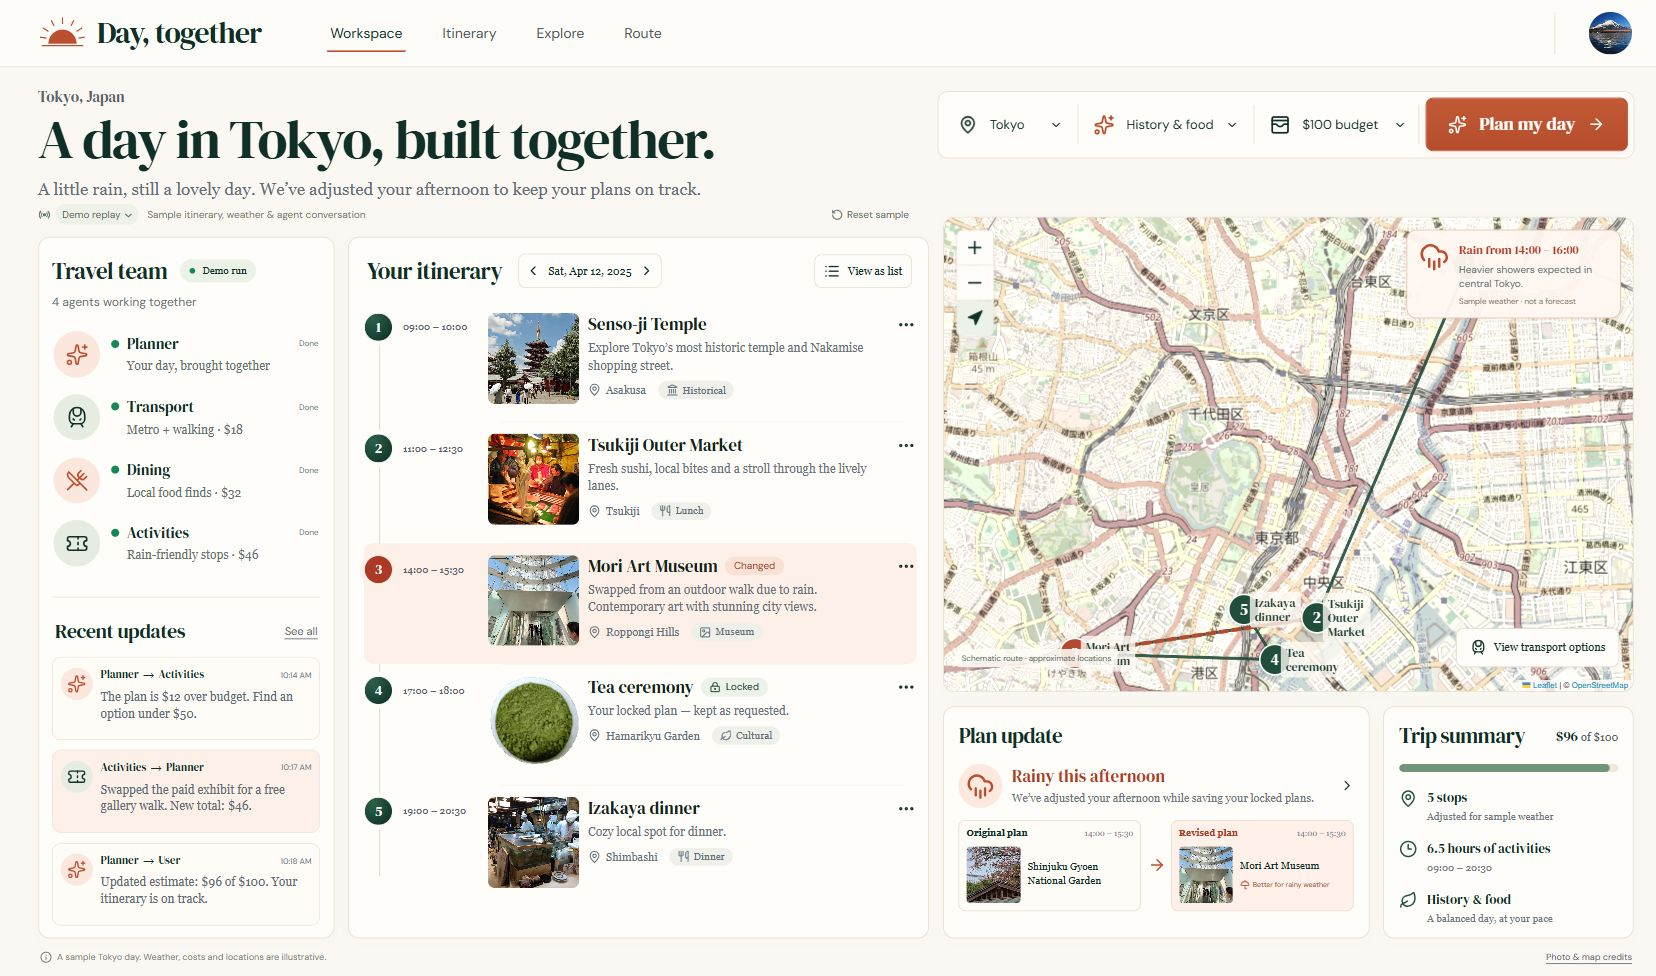
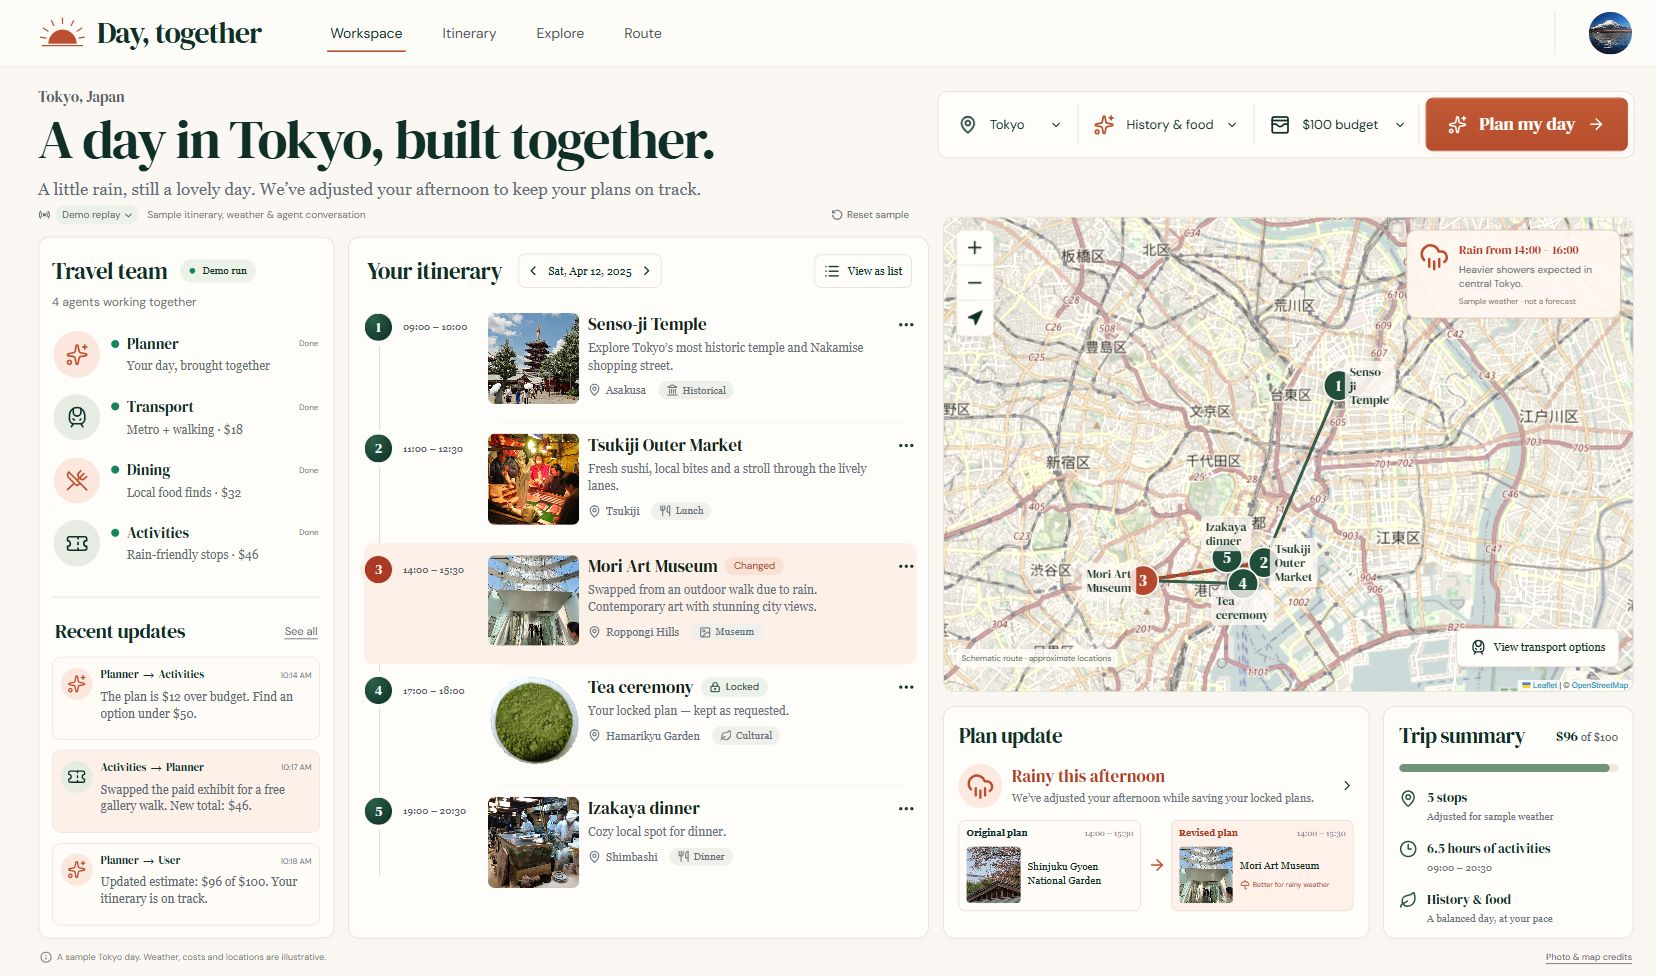
Keep route markers visible around the weather panel

Changed region(s): [[0.5543, 0.2152, 0.9855, 0.707]]

diff --git a/travel-planner/frontend/src/components/MapMarker.tsx b/travel-planner/frontend/src/components/MapMarker.tsx
@@ -24,7 +24,7 @@ export default function MapMarker({
       title={`Stop ${place.order}: ${place.name}`}
       eventHandlers={{ click: onSelect }}
     >
-      <Tooltip direction="right" permanent>
+      <Tooltip direction={place.order===5?'top':place.order===3?'left':place.order===4?'bottom':'right'} permanent>
         {place.name}
       </Tooltip>
     </Marker>

diff --git a/travel-planner/frontend/src/components/RouteMap.tsx b/travel-planner/frontend/src/components/RouteMap.tsx
@@ -22,8 +22,8 @@ function Controls({
     );
     if (points.length)
       map.fitBounds(points, {
-        paddingTopLeft: [40, 40],
-        paddingBottomRight: [75, 25],
+        paddingTopLeft: [55, 115],
+        paddingBottomRight: [150, 55],
         maxZoom: 13,
         animate: false,
       });

diff --git a/qa/VERIFICATION.md b/qa/VERIFICATION.md
@@ -16,4 +16,6 @@ Additional browser checks passed: Explore shows five sample destination cards; R
 
 `dashboard-desktop.png` and `dashboard-mobile.png` show the actual running implementation. Desktop photos and OpenStreetMap cartography are licensed substitutes for the generated reference assets. Exact generated map topology is intentionally not reproduced as navigation.
 
+Final map check: all five numbered markers were confirmed not to intersect the weather overlay. Fit padding and per-stop label directions avoid hiding the northern stop under the weather panel.
+
 The selected calendar date is currently a frontend display setting; the legacy live API accepts city, interests and budget only. No opening-date or forecast validation is claimed. Live plans cannot preserve locked stops yet, and clearly refuse such a request rather than silently replacing them.
